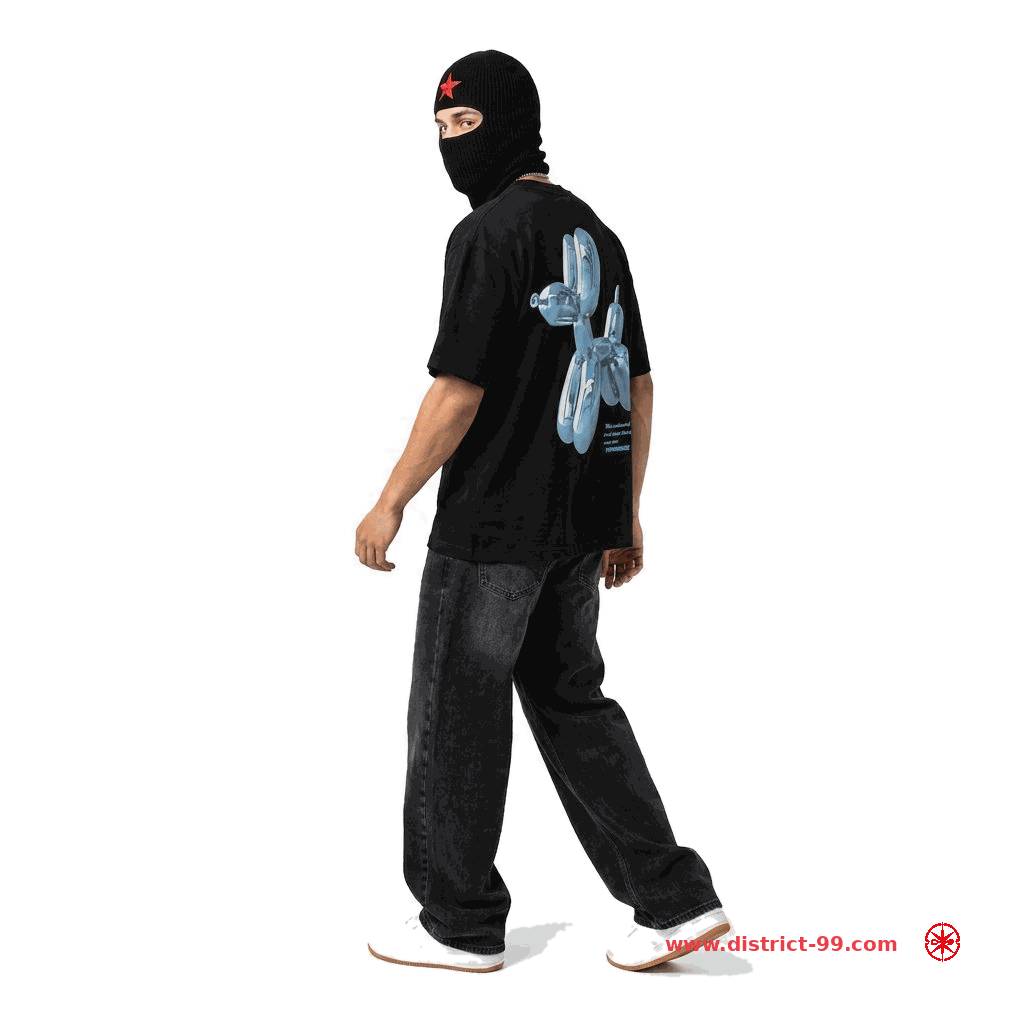
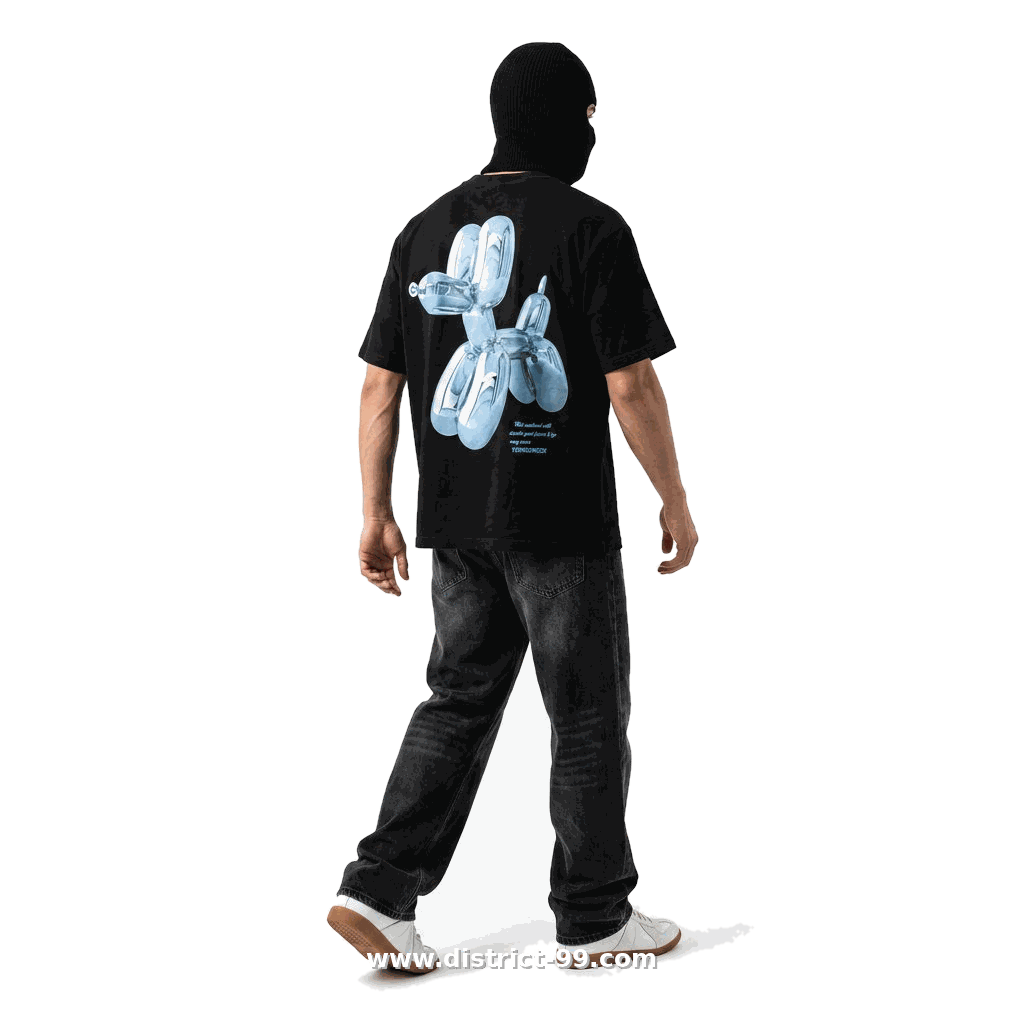
Complete Phase 2.1 for TSH-03 with plain balaclava and clean bold white website watermark

Changed region(s): [[0.3125, 0.0312, 0.875, 0.9688], [0.9062, 0.9062, 0.9375, 0.9375]]

diff --git a/D99-Social-Media/06-Brand-Assets/watermark_processor.py b/D99-Social-Media/06-Brand-Assets/watermark_processor.py
@@ -1,36 +1,10 @@
-from PIL import Image, ImageDraw, ImageFont, ImageOps, ImageChops
+from PIL import Image, ImageDraw, ImageFont
 import os
 
-def create_red_logo_watermark(logo_path, target_size=(100, 100)):
+def apply_brand_watermark(image_path, website_url="www.district-99.com"):
     """
-    Reads the white-on-black logo, removes black background, colors the white star red,
-    and returns a transparent RGBA logo image.
-    """
-    logo = Image.open(logo_path).convert("RGBA")
-    
-    # Resize first
-    logo = logo.resize(target_size, Image.Resampling.LANCZOS)
-    
-    # We want to isolate the white parts and make them red, and make black parts transparent.
-    # Create a new red image
-    red_color = (229, 9, 20, 255) # Sleek red
-    red_img = Image.new("RGBA", target_size, red_color)
-    
-    # Isolate white pixels from the logo to use as a mask
-    # Since logo_option_2 is white on black, we can take the Red channel (or any) as mask
-    r, g, b, a = logo.split()
-    # High-contrast threshold to get a clean mask of the star
-    mask = r.point(lambda p: 255 if p > 50 else 0)
-    
-    # Merge red image with the mask
-    watermark_logo = Image.new("RGBA", target_size, (0,0,0,0))
-    watermark_logo.paste(red_img, (0, 0), mask=mask)
-    
-    return watermark_logo
-
-def apply_brand_watermark(image_path, logo_path, website_url="www.district-99.com"):
-    """
-    Applies a professional red Cyber-Star logo and minimal website text in the corner of the image.
+    Applies a highly-styled, modern, and youthful website text watermark
+    (www.district-99.com) onto the image using a clean DejaVuSans-Bold font.
     """
     if not os.path.exists(image_path):
         print(f"Error: Image {image_path} not found.")
@@ -42,50 +16,43 @@ def apply_brand_watermark(image_path, logo_path, website_url="www.district-99.co
     # Create Draw object
     draw = ImageDraw.Draw(img)
     
-    # Set up logo watermark
-    logo_size = (int(h * 0.06), int(h * 0.06)) # 6% of image height
-    red_logo = create_red_logo_watermark(logo_path, target_size=logo_size)
+    # Set up font size (scaled to 2.5% of image height for high legibility)
+    font_size = int(h * 0.025)
     
-    # Position: Bottom-right corner with margins
-    margin_x = int(w * 0.05) # 5% margin
-    margin_y = int(h * 0.05)
-    
-    logo_x = w - logo_size[0] - margin_x
-    logo_y = h - logo_size[1] - margin_y
-    
-    # Paste the red logo onto the image
-    img.paste(red_logo, (logo_x, logo_y), mask=red_logo)
-    
-    # Set up minimal website text
-    # Try to load a clean sans-serif font, fallback to default
-    font_size = int(h * 0.02) # 2% of image height
+    # Load the beautiful DejaVuSans-Bold font which is installed on the system
+    font_path = "/usr/share/fonts/truetype/dejavu/DejaVuSans-Bold.ttf"
     try:
-        font = ImageFont.truetype("DejaVuSans-Bold.ttf", font_size)
+        font = ImageFont.truetype(font_path, font_size)
     except IOError:
-        try:
-            font = ImageFont.truetype("arial.ttf", font_size)
-        except IOError:
-            font = ImageFont.load_default()
-            
-    # Text position: Left of the logo, vertically centered
-    text_color = (229, 9, 20, 200) # Slightly transparent red to match the logo
-    text_w = draw.textlength(website_url, font=font) if hasattr(draw, "textlength") else font_size * len(website_url) * 0.6
+        font = ImageFont.load_default()
+        
+    # Set up modern semi-transparent white/gray color for clean streetwear vibe (editorial style)
+    text_color = (255, 255, 255, 180) # Clean white with slight opacity (Alpha = 180)
     
-    text_x = logo_x - int(text_w) - 15 # 15px gap between text and logo
-    # Vertically center the text with the logo
-    text_y = logo_y + (logo_size[1] // 2) - (font_size // 2)
+    # Position: Bottom-center or bottom-left. Let's do bottom-center!
+    # Calculate text dimensions
+    if hasattr(draw, "textlength"):
+        text_w = draw.textlength(website_url, font=font)
+    else:
+        text_w = font_size * len(website_url) * 0.6
+        
+    text_x = (w - text_w) // 2 # Centered
+    text_y = h - int(h * 0.08) # 8% from bottom
     
-    # Draw the text
+    # Optional: Draw a very subtle dark shadow behind text for perfect contrast on any background
+    shadow_color = (0, 0, 0, 80)
+    draw.text((text_x + 2, text_y + 2), website_url, font=font, fill=shadow_color)
+    
+    # Draw the main text
     draw.text((text_x, text_y), website_url, font=font, fill=text_color)
     
     # Save the watermarked image
     img.save(image_path, "PNG")
-    print(f"✅ Successfully watermarked {os.path.basename(image_path)} with logo & website!")
+    print(f"✅ Successfully watermarked {os.path.basename(image_path)} with: {website_url}")
     return True
 
 if __name__ == "__main__":
-    # Test on a dummy path or TSH-01 pose_1.png
+    # Test on a dummy path or a completed pose
     apply_brand_watermark(
-        "/home/user/product/tshirt 01 to 18/TSH-01/pose_1.png",
-        "/home/user/D99-Social-Media/06-Brand-Assets/logo_option_2.png"
+        "/home/user/product/tshirt 01 to 18/TSH-01/pose_1.png"
     )
